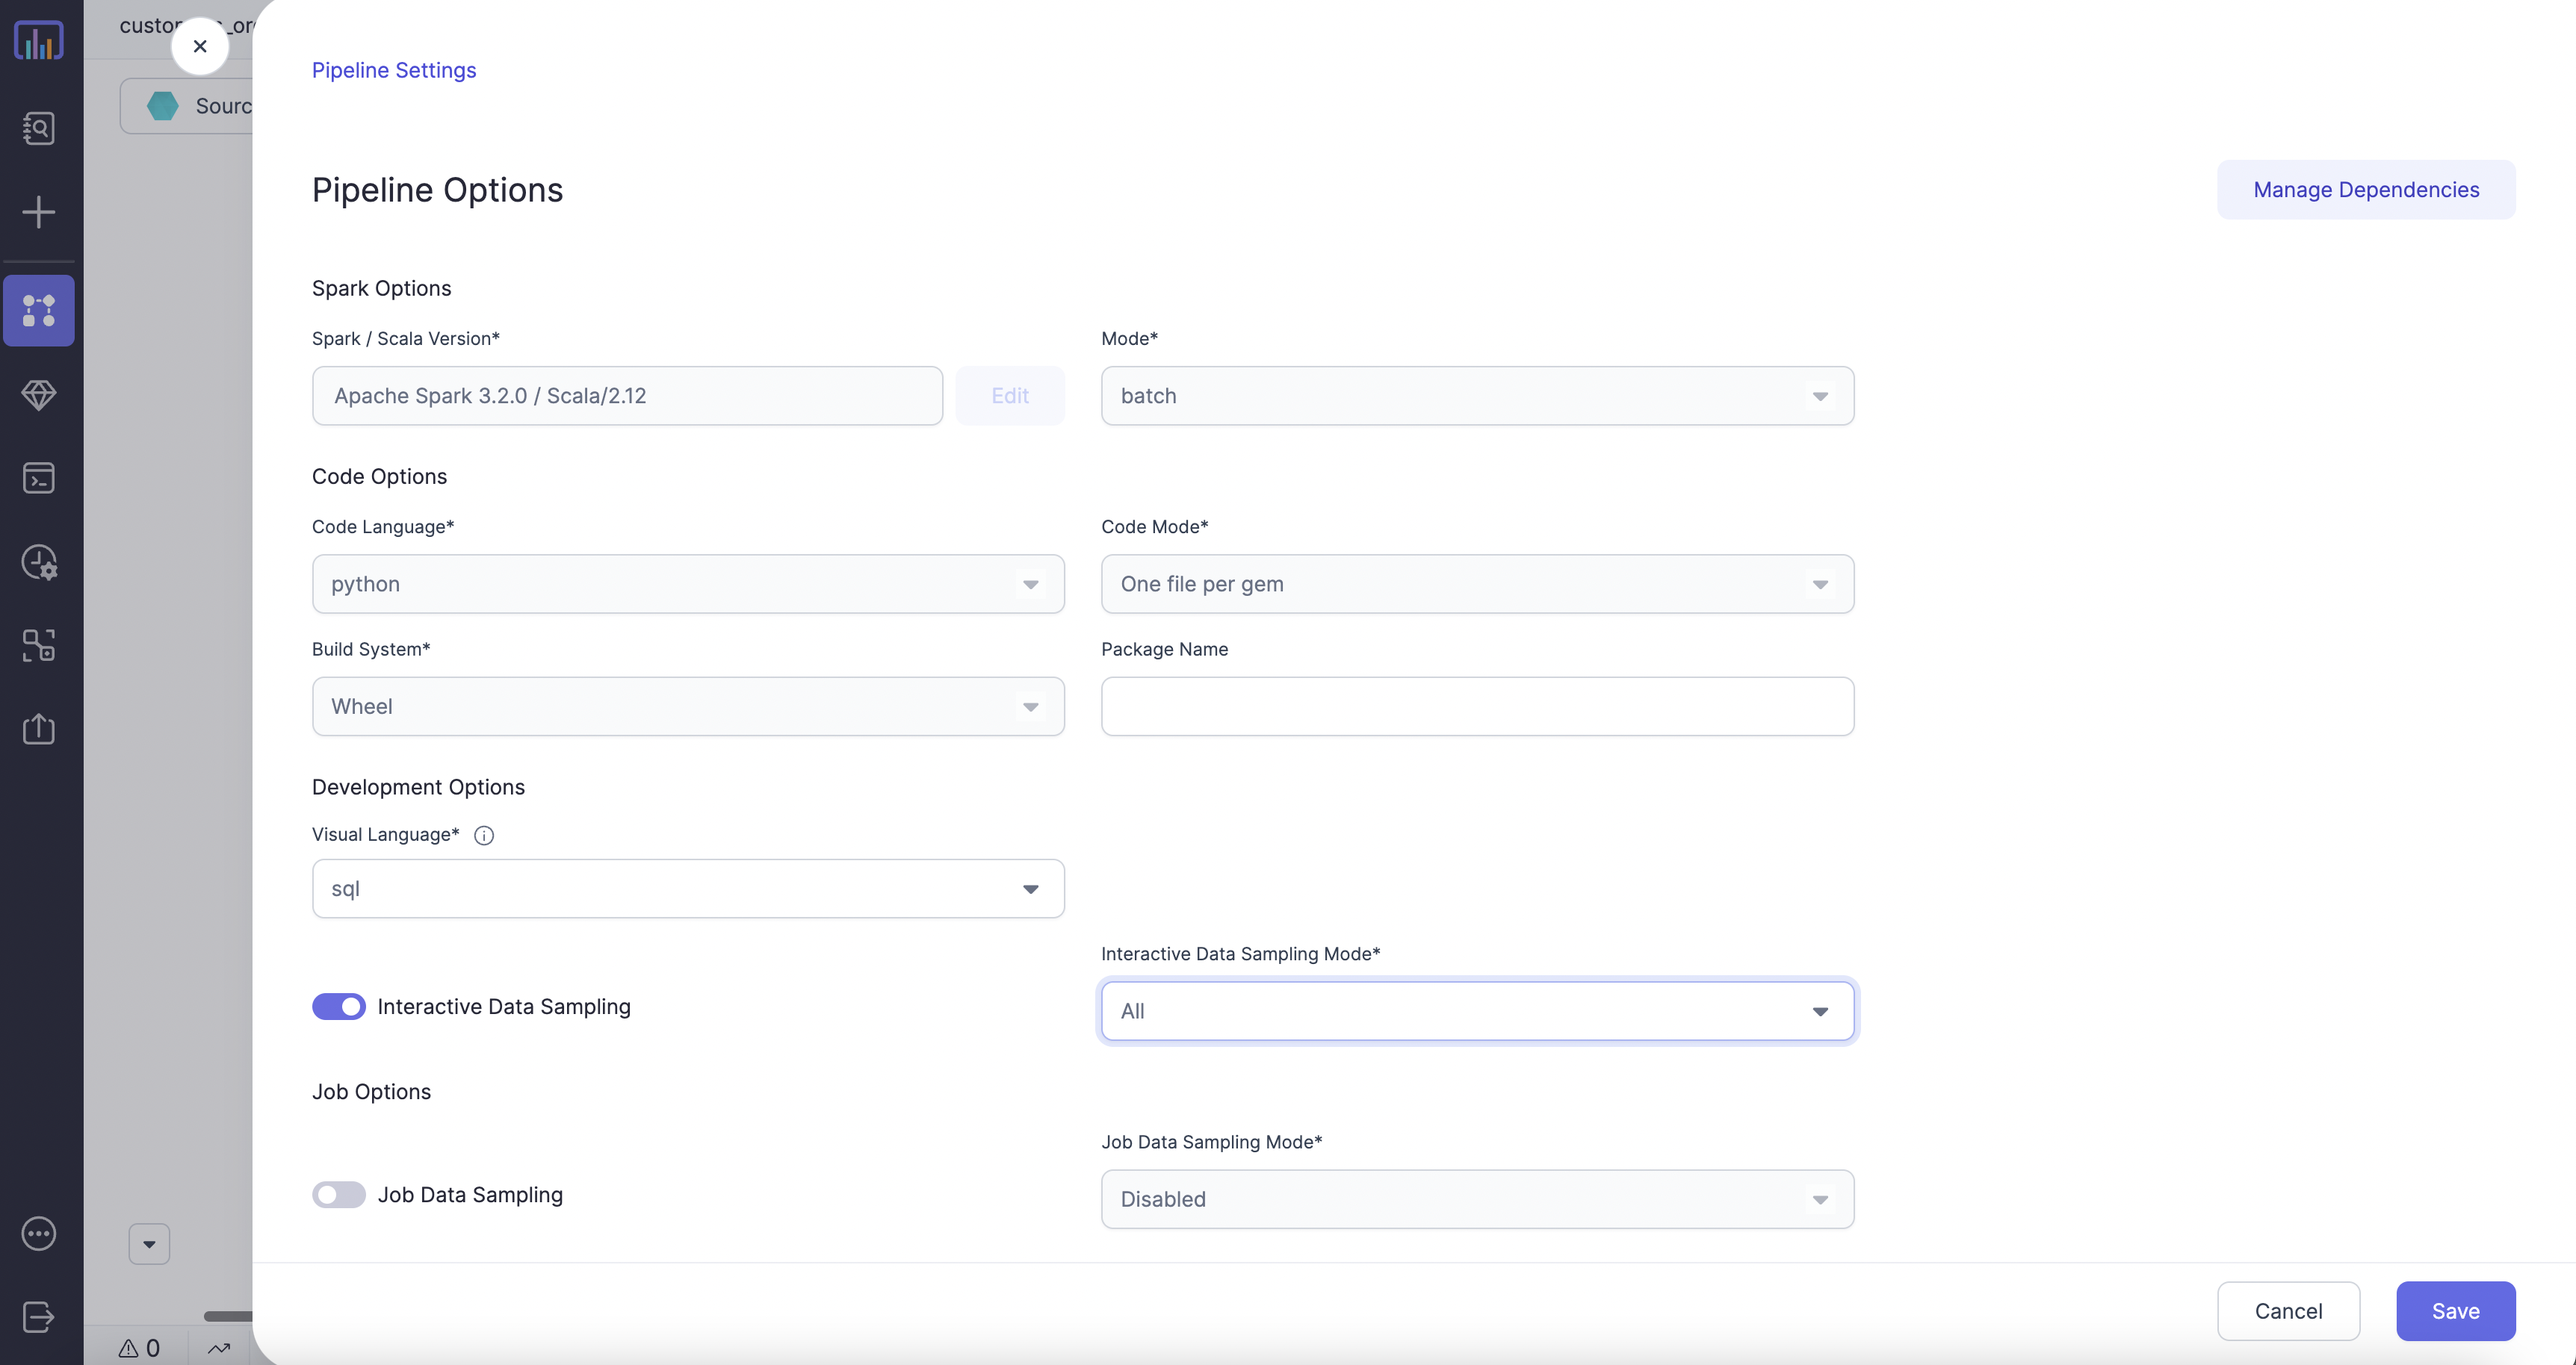
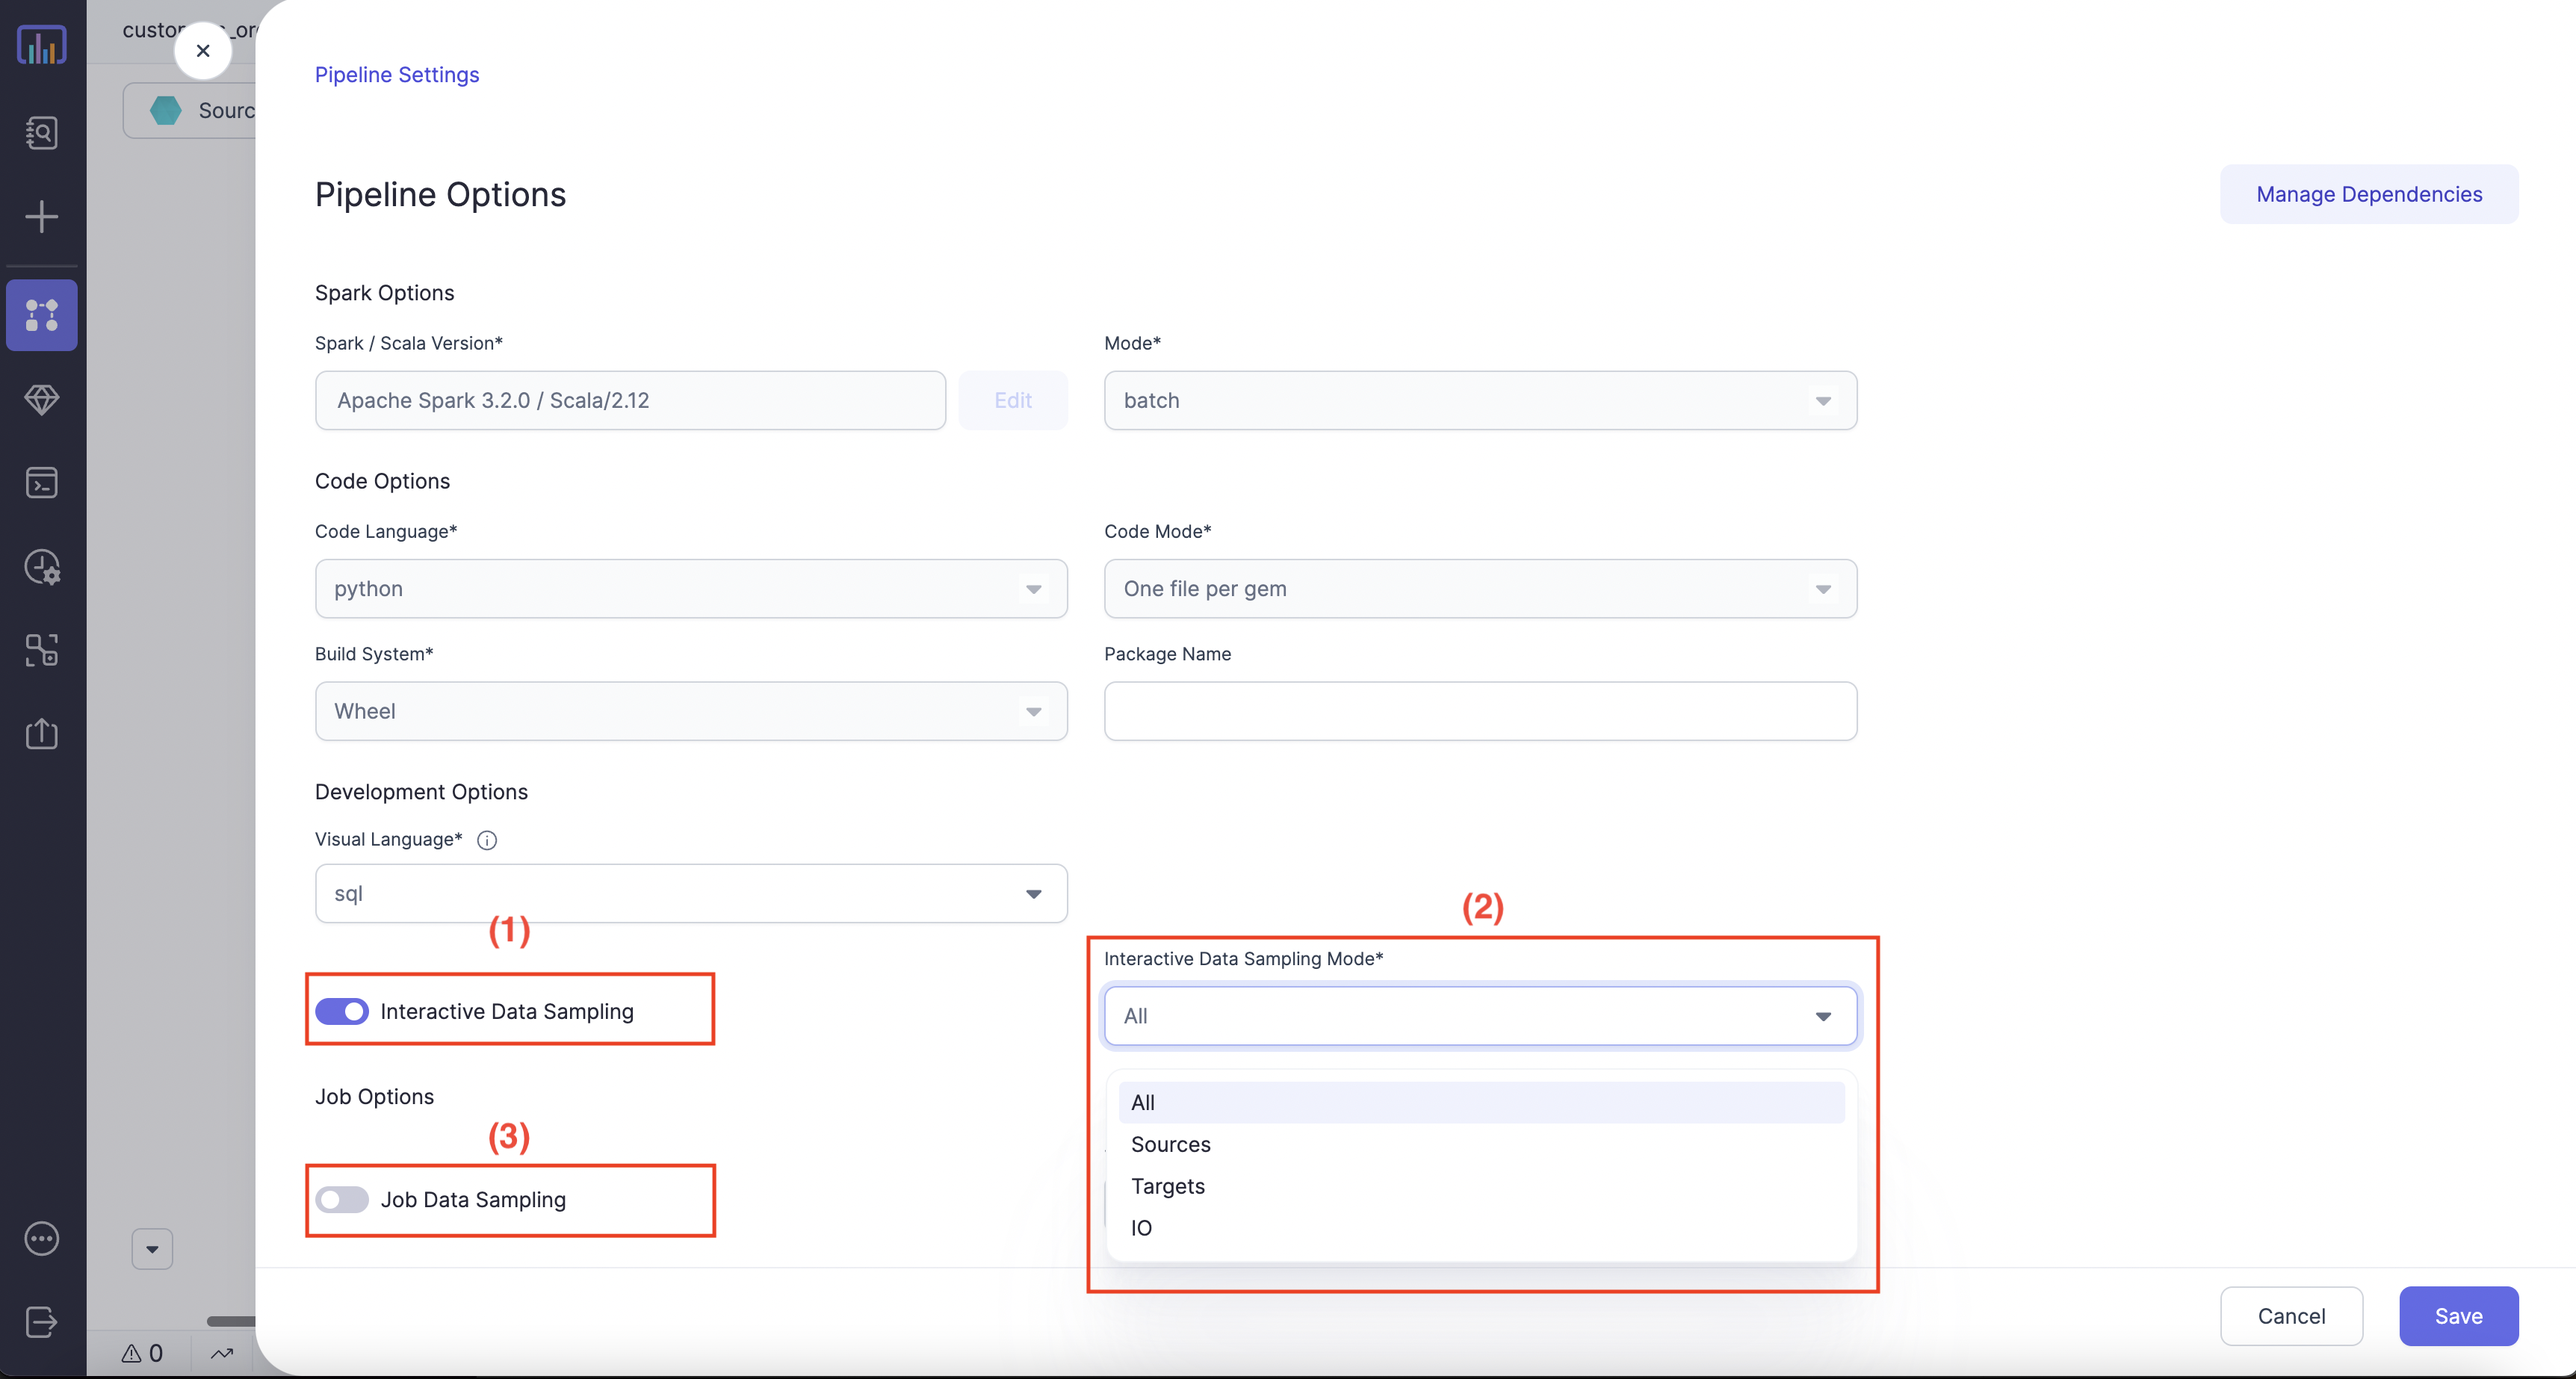
added docs for interactive execution

diff --git a/docs/low-code-spark/interactive-execution.md b/docs/low-code-spark/interactive-execution.md
@@ -66,6 +66,10 @@ export const ImageData = [
 <App ImageData={ImageData}></App>
 ```
 
+(1) Option to enable/disable data sampling during interactive runs.
+(2) Option to choose the level of data sampling for interactive runs.
+(3) Option to enable/disable data sampling for Job runs (scheduled/interactive). Level of data sampling can be configured same as (2). If enabled the interims would be stored in [execution metrics](interactive-execution#execution-metrics) for scheduler runs as well.
+
 ## Execution
 
 Once we run a Pipeline, we can use below options to better understand our Pipeline:
